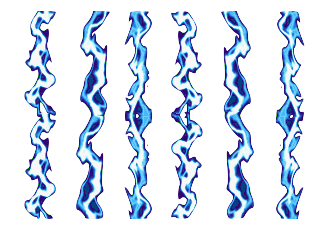
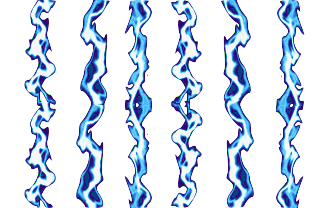
fireball and lightning png fix

diff --git a/index.html b/index.html
@@ -36,7 +36,7 @@ function preload() {
 	game.load.spritesheet('enemy0', '/assets/shump_assets/mob_turret_1.png', 24, 24);
 	game.load.spritesheet('explosion', 'assets/shump_assets/explosion_1.png', 32, 32);
 	game.load.spritesheet('shield', 'assets/magic.png', 192, 192);
-	game.load.spritesheet('lightning', 'assets/lightning.png', 55, 237);
+	game.load.spritesheet('lightning', 'assets/lightning.png', 55, 208);
 	game.load.spritesheet('rocket', 'assets/arrows.png', 48, 48);
 	game.load.spritesheet('fireball', '/assets/fireball.png', 32, 30);
 }
